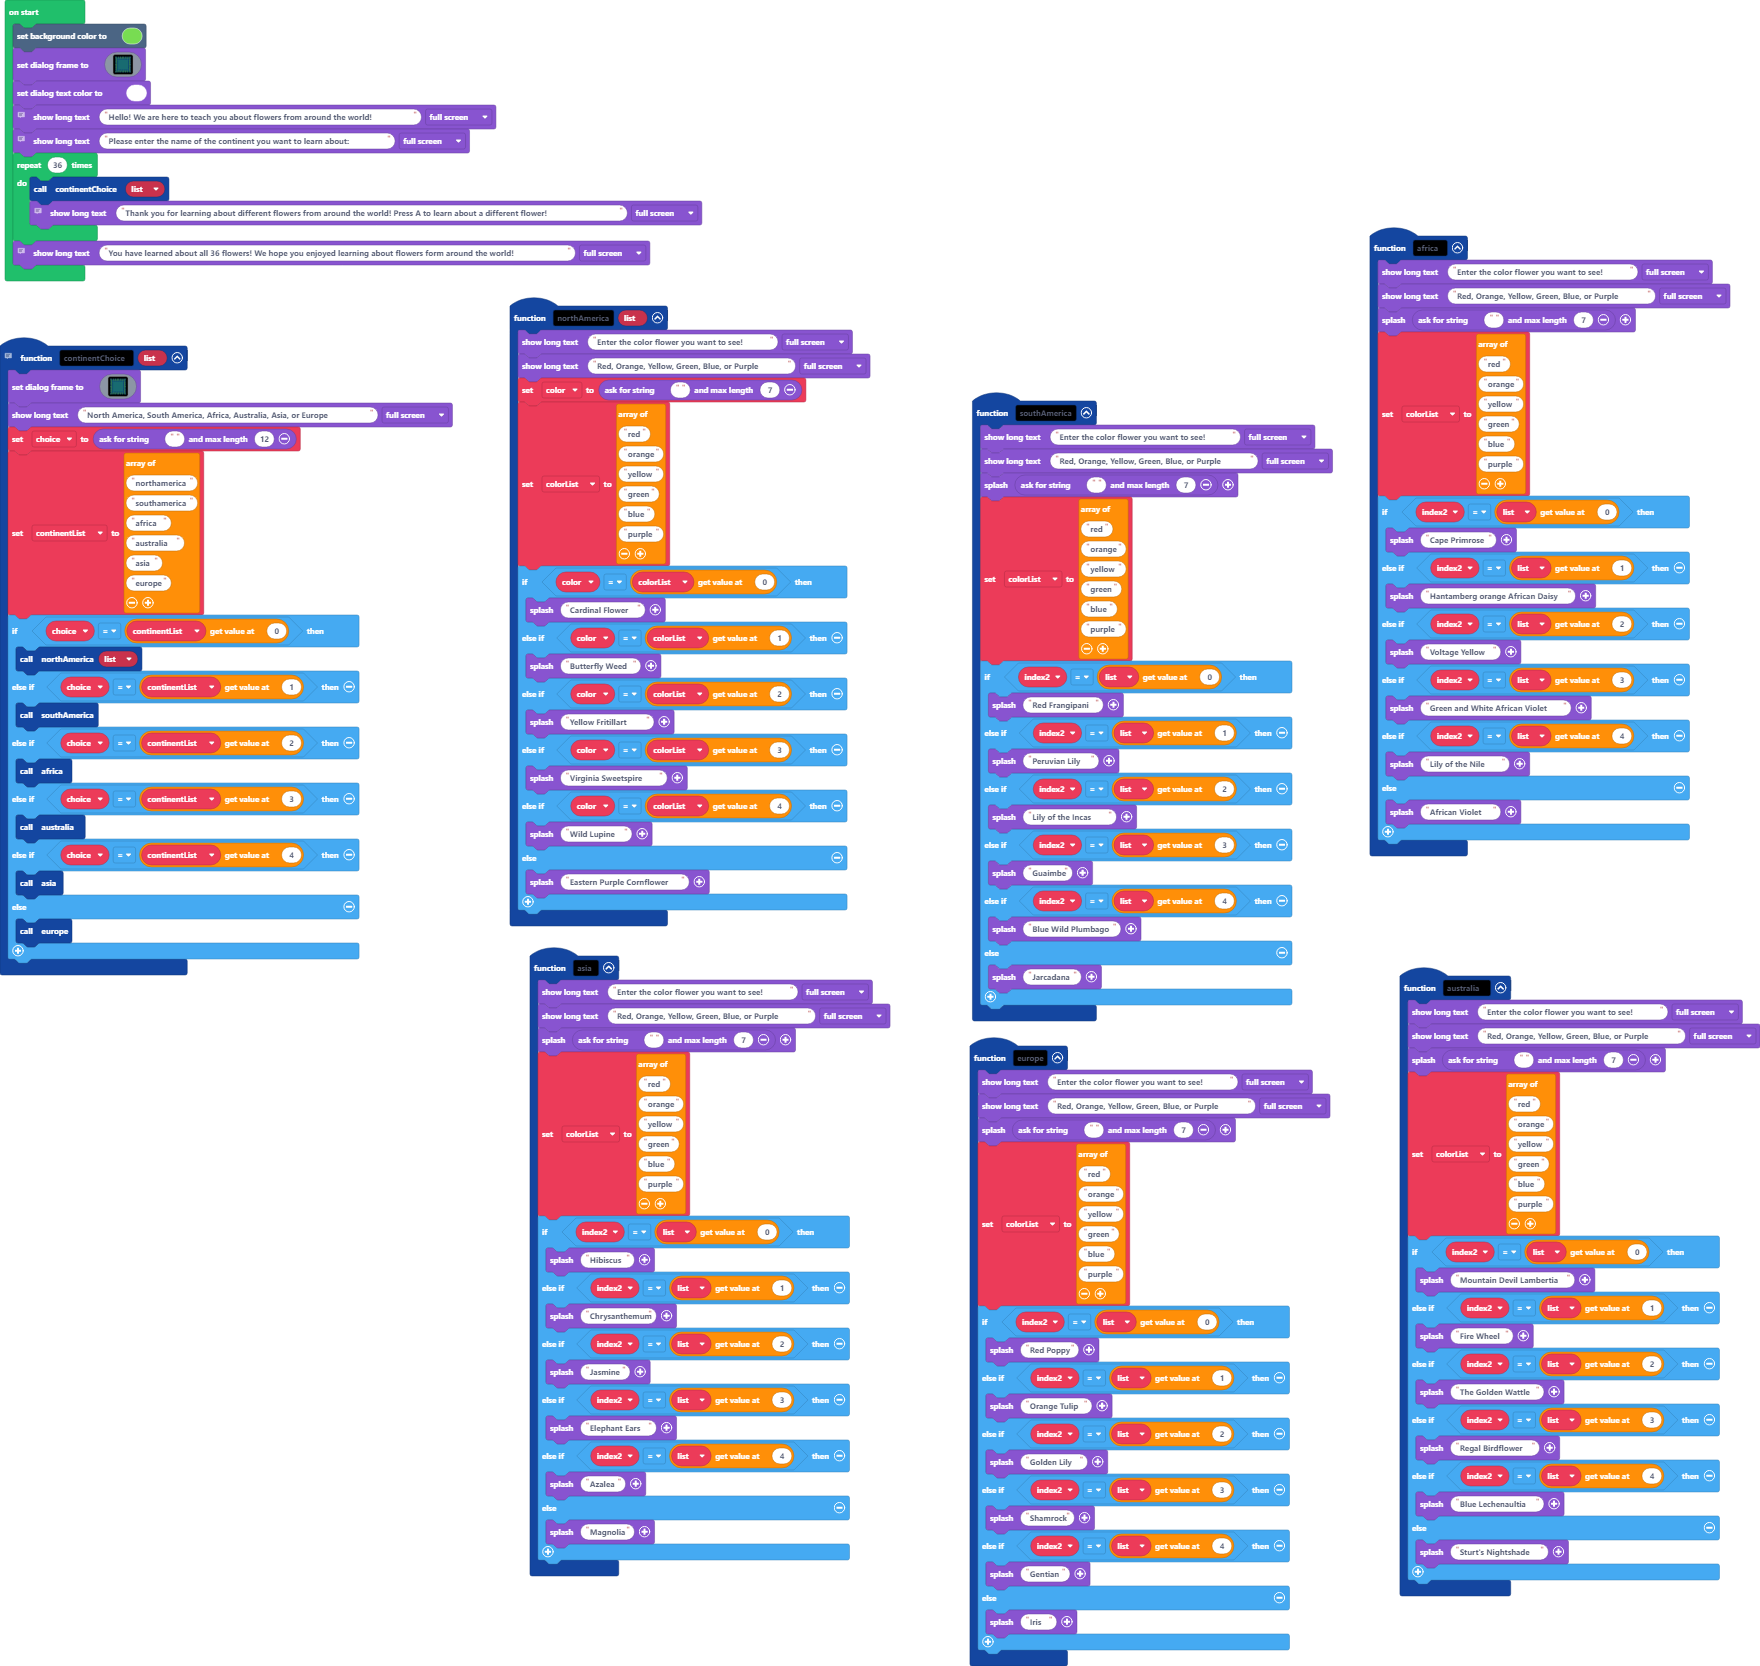
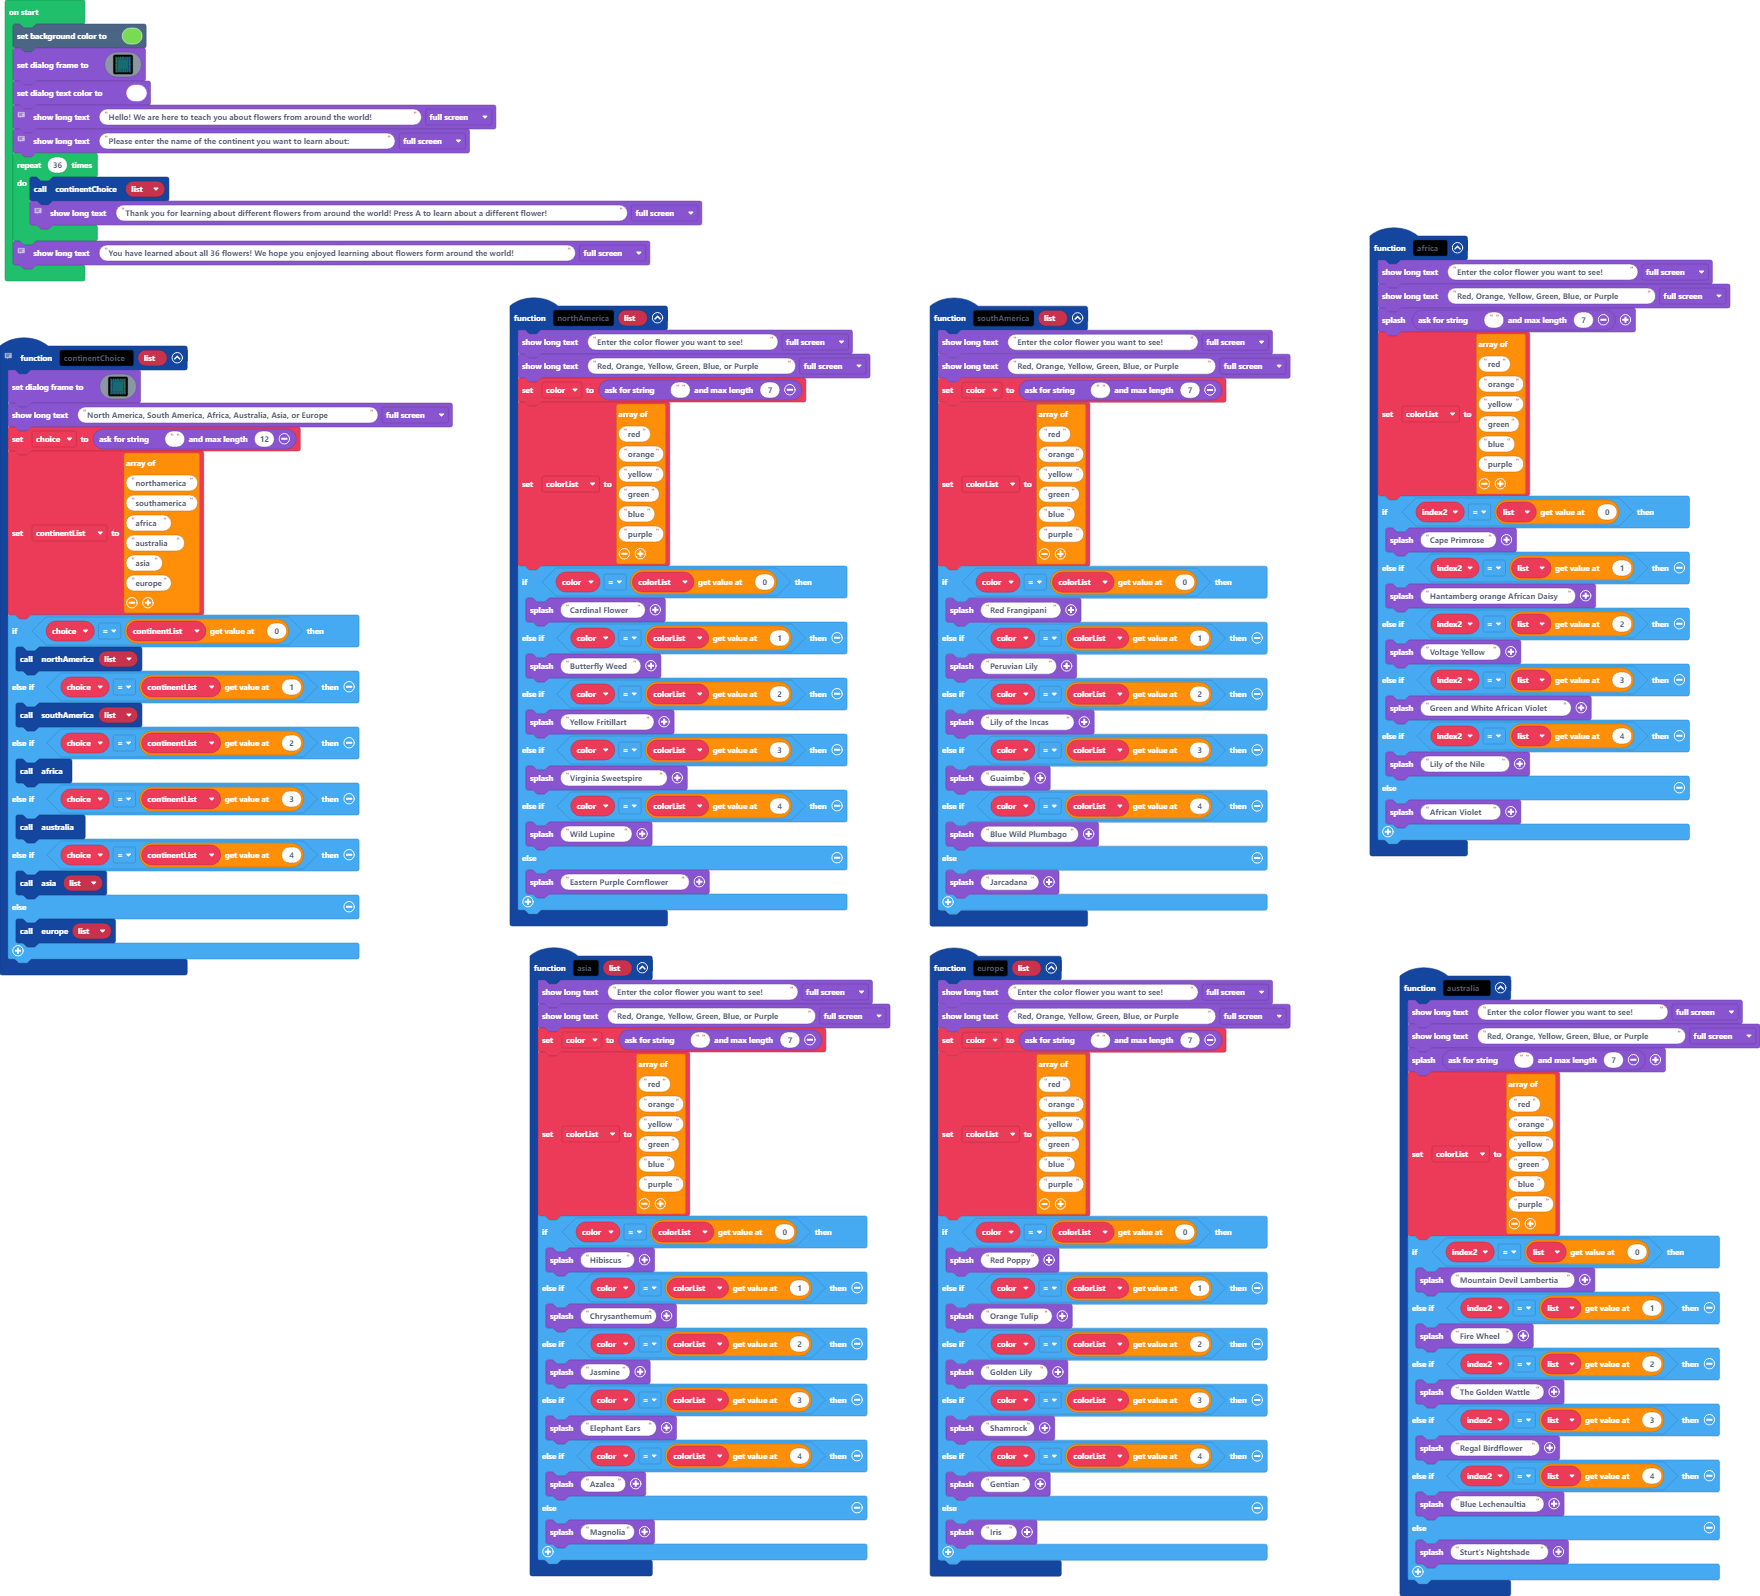
Update main.blocks, main.ts

diff --git a/main.ts b/main.ts
@@ -1,7 +1,7 @@
-function asia () {
+function asia (list: any[]) {
     game.showLongText("Enter the color flower you want to see!", DialogLayout.Full)
     game.showLongText("Red, Orange, Yellow, Green, Blue, or Purple", DialogLayout.Full)
-    game.splash(game.askForString("", 7))
+    color = game.askForString("", 7)
     colorList = [
     "red",
     "orange",
@@ -10,15 +10,15 @@ function asia () {
     "blue",
     "purple"
     ]
-    if (index2 == list[0]) {
+    if (color == colorList[0]) {
         game.splash("Hibiscus")
-    } else if (index2 == list[1]) {
+    } else if (color == colorList[1]) {
         game.splash("Chrysanthemum")
-    } else if (index2 == list[2]) {
+    } else if (color == colorList[2]) {
         game.splash("Jasmine")
-    } else if (index2 == list[3]) {
+    } else if (color == colorList[3]) {
         game.splash("Elephant Ears")
-    } else if (index2 == list[4]) {
+    } else if (color == colorList[4]) {
         game.splash("Azalea")
     } else {
         game.splash("Magnolia")
@@ -76,10 +76,10 @@ function australia () {
         game.splash("Sturt's Nightshade")
     }
 }
-function europe () {
+function europe (list: any[]) {
     game.showLongText("Enter the color flower you want to see!", DialogLayout.Full)
     game.showLongText("Red, Orange, Yellow, Green, Blue, or Purple", DialogLayout.Full)
-    game.splash(game.askForString("", 7))
+    color = game.askForString("", 7)
     colorList = [
     "red",
     "orange",
@@ -88,24 +88,24 @@ function europe () {
     "blue",
     "purple"
     ]
-    if (index2 == list[0]) {
+    if (color == colorList[0]) {
         game.splash("Red Poppy")
-    } else if (index2 == list[1]) {
+    } else if (color == colorList[1]) {
         game.splash("Orange Tulip")
-    } else if (index2 == list[2]) {
+    } else if (color == colorList[2]) {
         game.splash("Golden Lily")
-    } else if (index2 == list[3]) {
+    } else if (color == colorList[3]) {
         game.splash("Shamrock")
-    } else if (index2 == list[4]) {
+    } else if (color == colorList[4]) {
         game.splash("Gentian")
     } else {
         game.splash("Iris")
     }
 }
-function southAmerica () {
+function southAmerica (list: any[]) {
     game.showLongText("Enter the color flower you want to see!", DialogLayout.Full)
     game.showLongText("Red, Orange, Yellow, Green, Blue, or Purple", DialogLayout.Full)
-    game.splash(game.askForString("", 7))
+    color = game.askForString("", 7)
     colorList = [
     "red",
     "orange",
@@ -114,15 +114,15 @@ function southAmerica () {
     "blue",
     "purple"
     ]
-    if (index2 == list[0]) {
+    if (color == colorList[0]) {
         game.splash("Red Frangipani")
-    } else if (index2 == list[1]) {
+    } else if (color == colorList[1]) {
         game.splash("Peruvian Lily")
-    } else if (index2 == list[2]) {
+    } else if (color == colorList[2]) {
         game.splash("Lily of the Incas")
-    } else if (index2 == list[3]) {
+    } else if (color == colorList[3]) {
         game.splash("Guaimbe")
-    } else if (index2 == list[4]) {
+    } else if (color == colorList[4]) {
         game.splash("Blue Wild Plumbago")
     } else {
         game.splash("Jarcadana")
@@ -219,22 +219,22 @@ function continentChoice (list: any[]) {
     if (choice == continentList[0]) {
         northAmerica(list)
     } else if (choice == continentList[1]) {
-        southAmerica()
+        southAmerica(list)
     } else if (choice == continentList[2]) {
         africa()
     } else if (choice == continentList[3]) {
         australia()
     } else if (choice == continentList[4]) {
-        asia()
+        asia(list)
     } else {
-        europe()
+        europe(list)
     }
 }
 let continentList: string[] = []
 let choice = ""
-let color = ""
 let index2 = 0
 let colorList: string[] = []
+let color = ""
 let list: number[] = []
 scene.setBackgroundColor(7)
 game.setDialogFrame(img`
